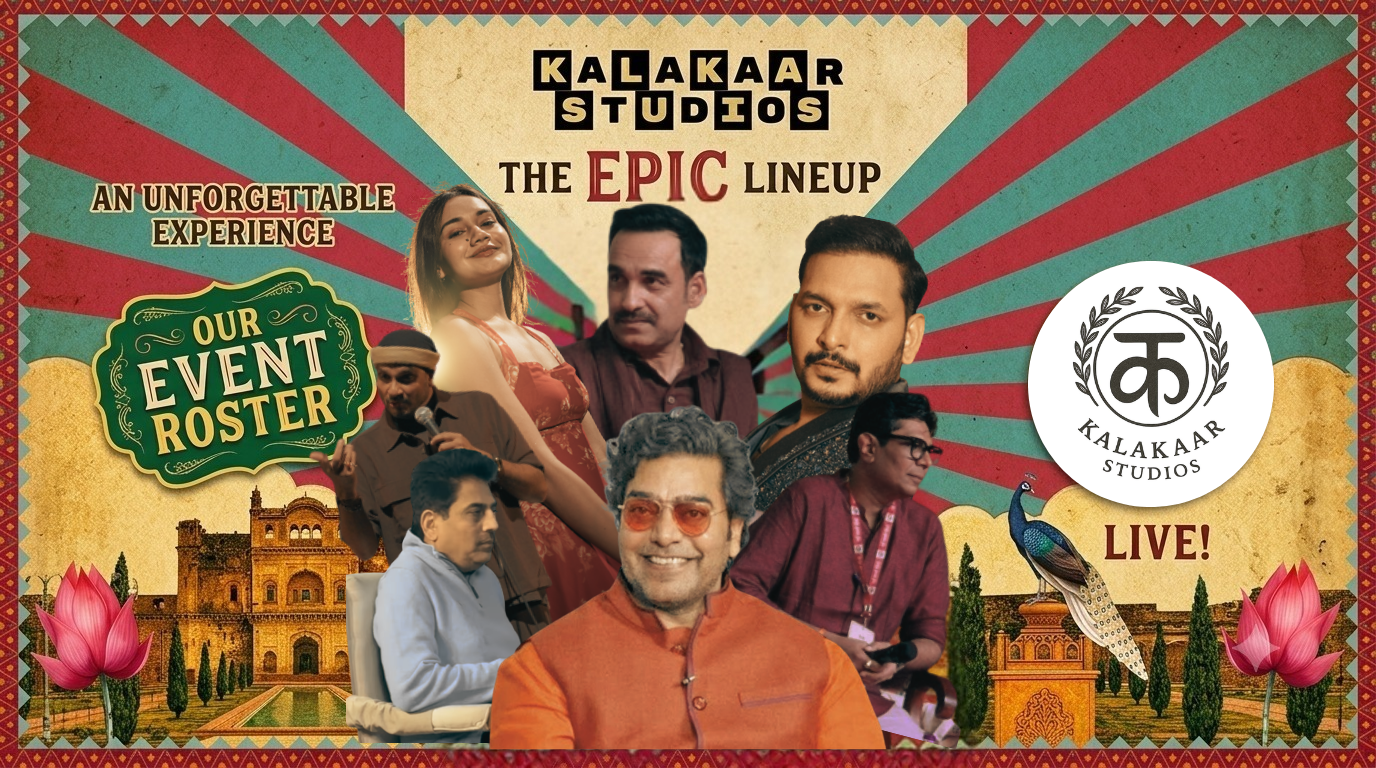
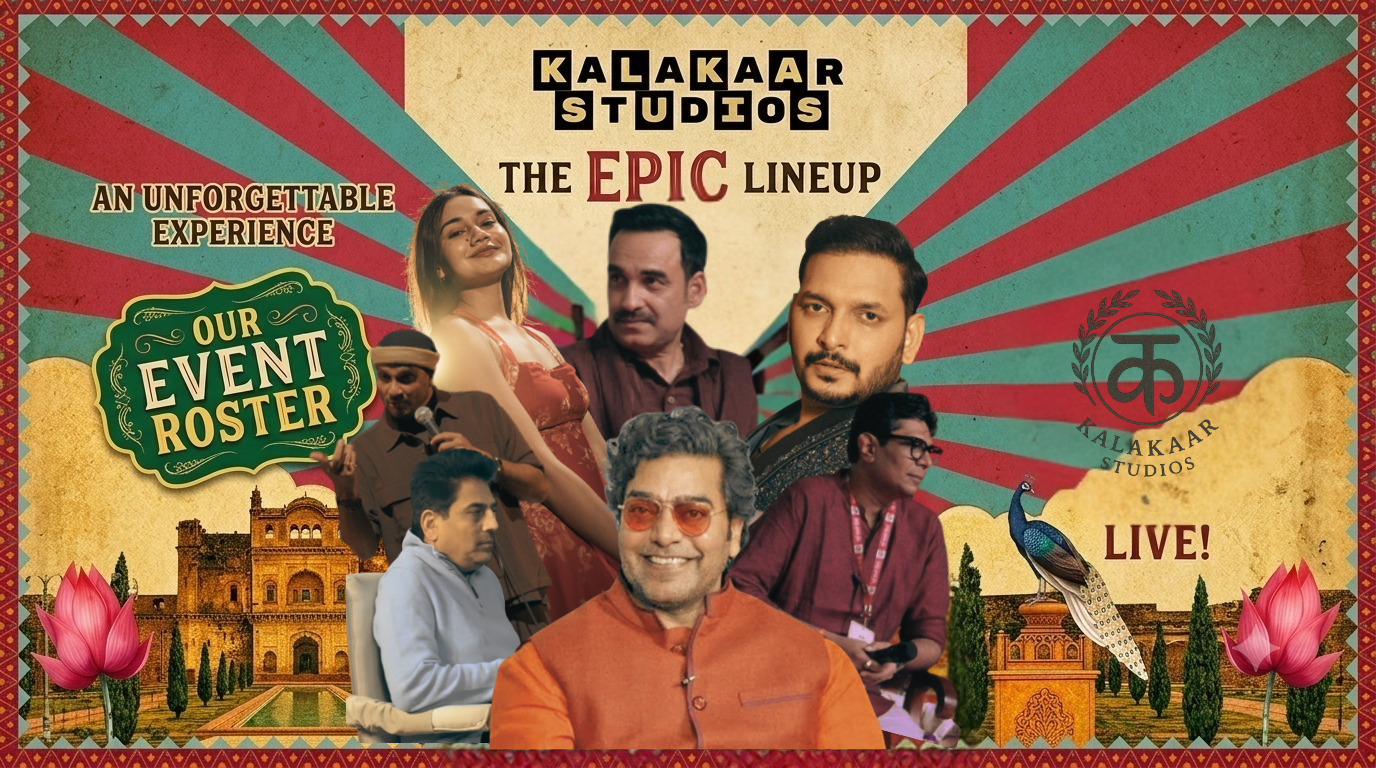
feat: use updated hero event artwork

Changed region(s): [[0.7188, 0.3438, 0.9375, 0.6875]]

diff --git a/src/app/page.tsx b/src/app/page.tsx
@@ -426,8 +426,8 @@ export default function Home() {
           <Image
             src="/hero-event-art.png"
             alt="Kalakaar Studios Live Event Roster"
-            width={1200}
-            height={675}
+            width={1376}
+            height={768}
             priority
             className="h-auto w-full rounded-lg shadow-[8px_8px_0px_0px_var(--color-ink)]"
           />
